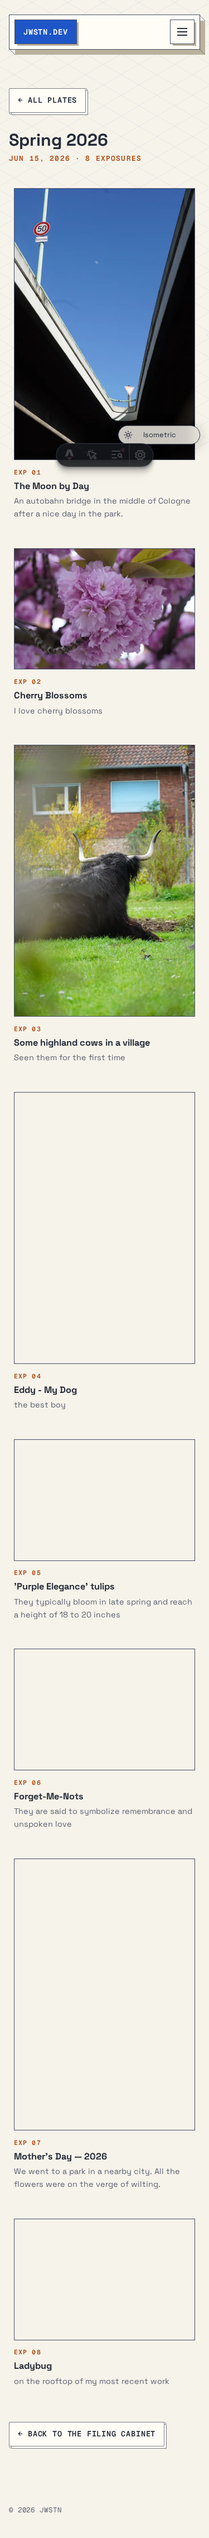
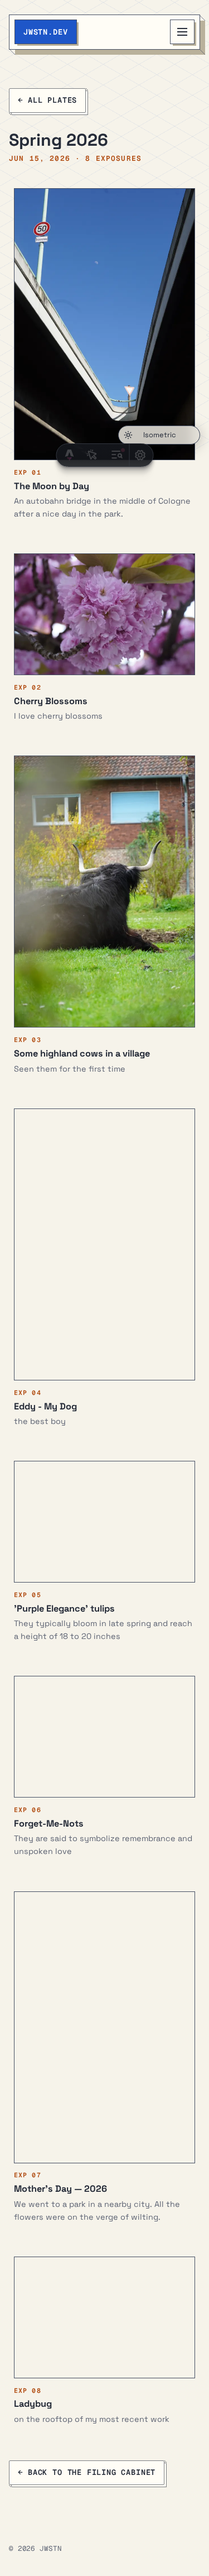
Gallery: larger album photos with a roomier minimum tile size (#37)

diff --git a/src/themes/isometric/theme.css b/src/themes/isometric/theme.css
@@ -1235,8 +1235,8 @@ html.theme-isometric .iso-album-cta {
 /* the photo wall on an album page */
 html.theme-isometric .iso-wall {
   display: grid;
-  grid-template-columns: repeat(auto-fill, minmax(14.5rem, 1fr));
-  gap: 2rem 1.9rem;
+  grid-template-columns: repeat(auto-fill, minmax(20rem, 1fr));
+  gap: 2.6rem 2.2rem;
   padding: 0;
   margin: 0;
   list-style: none;
